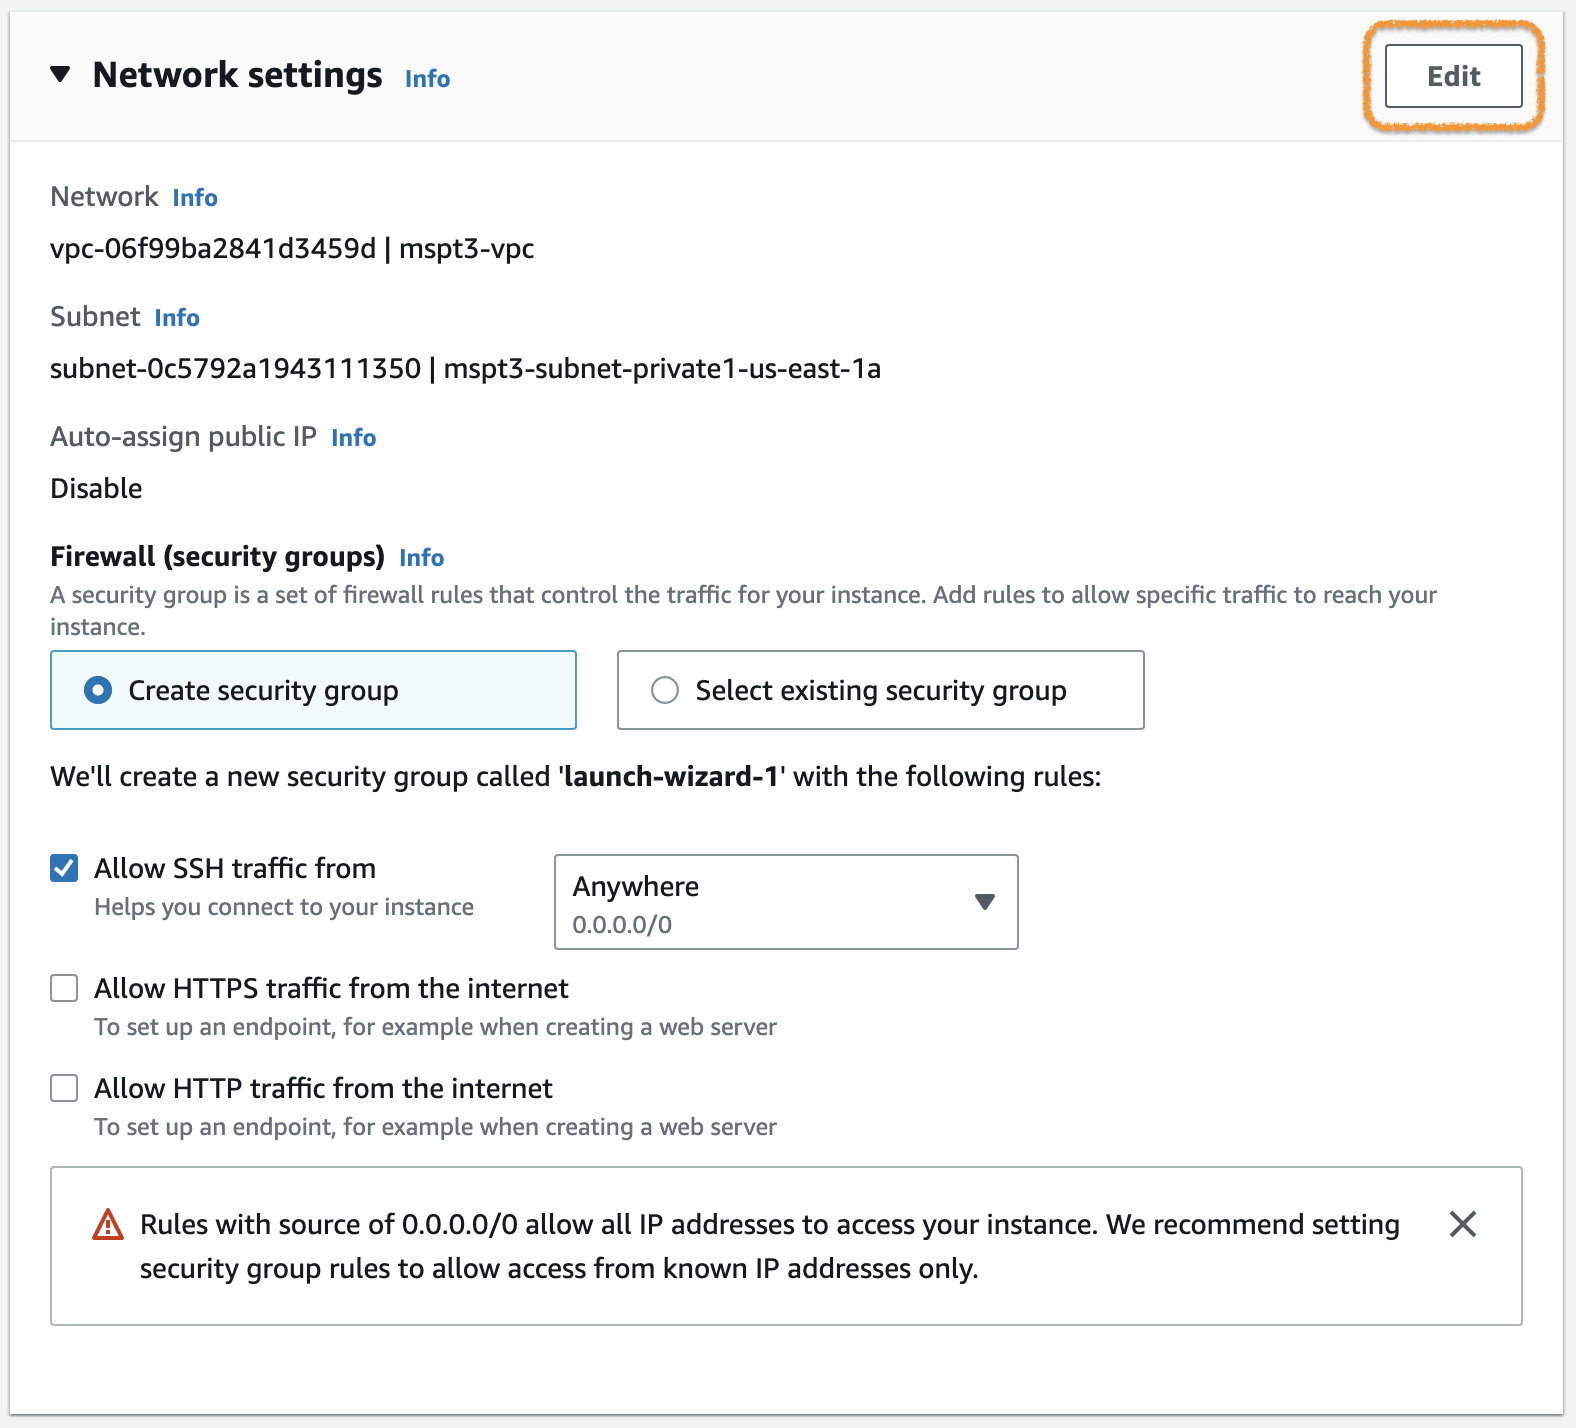
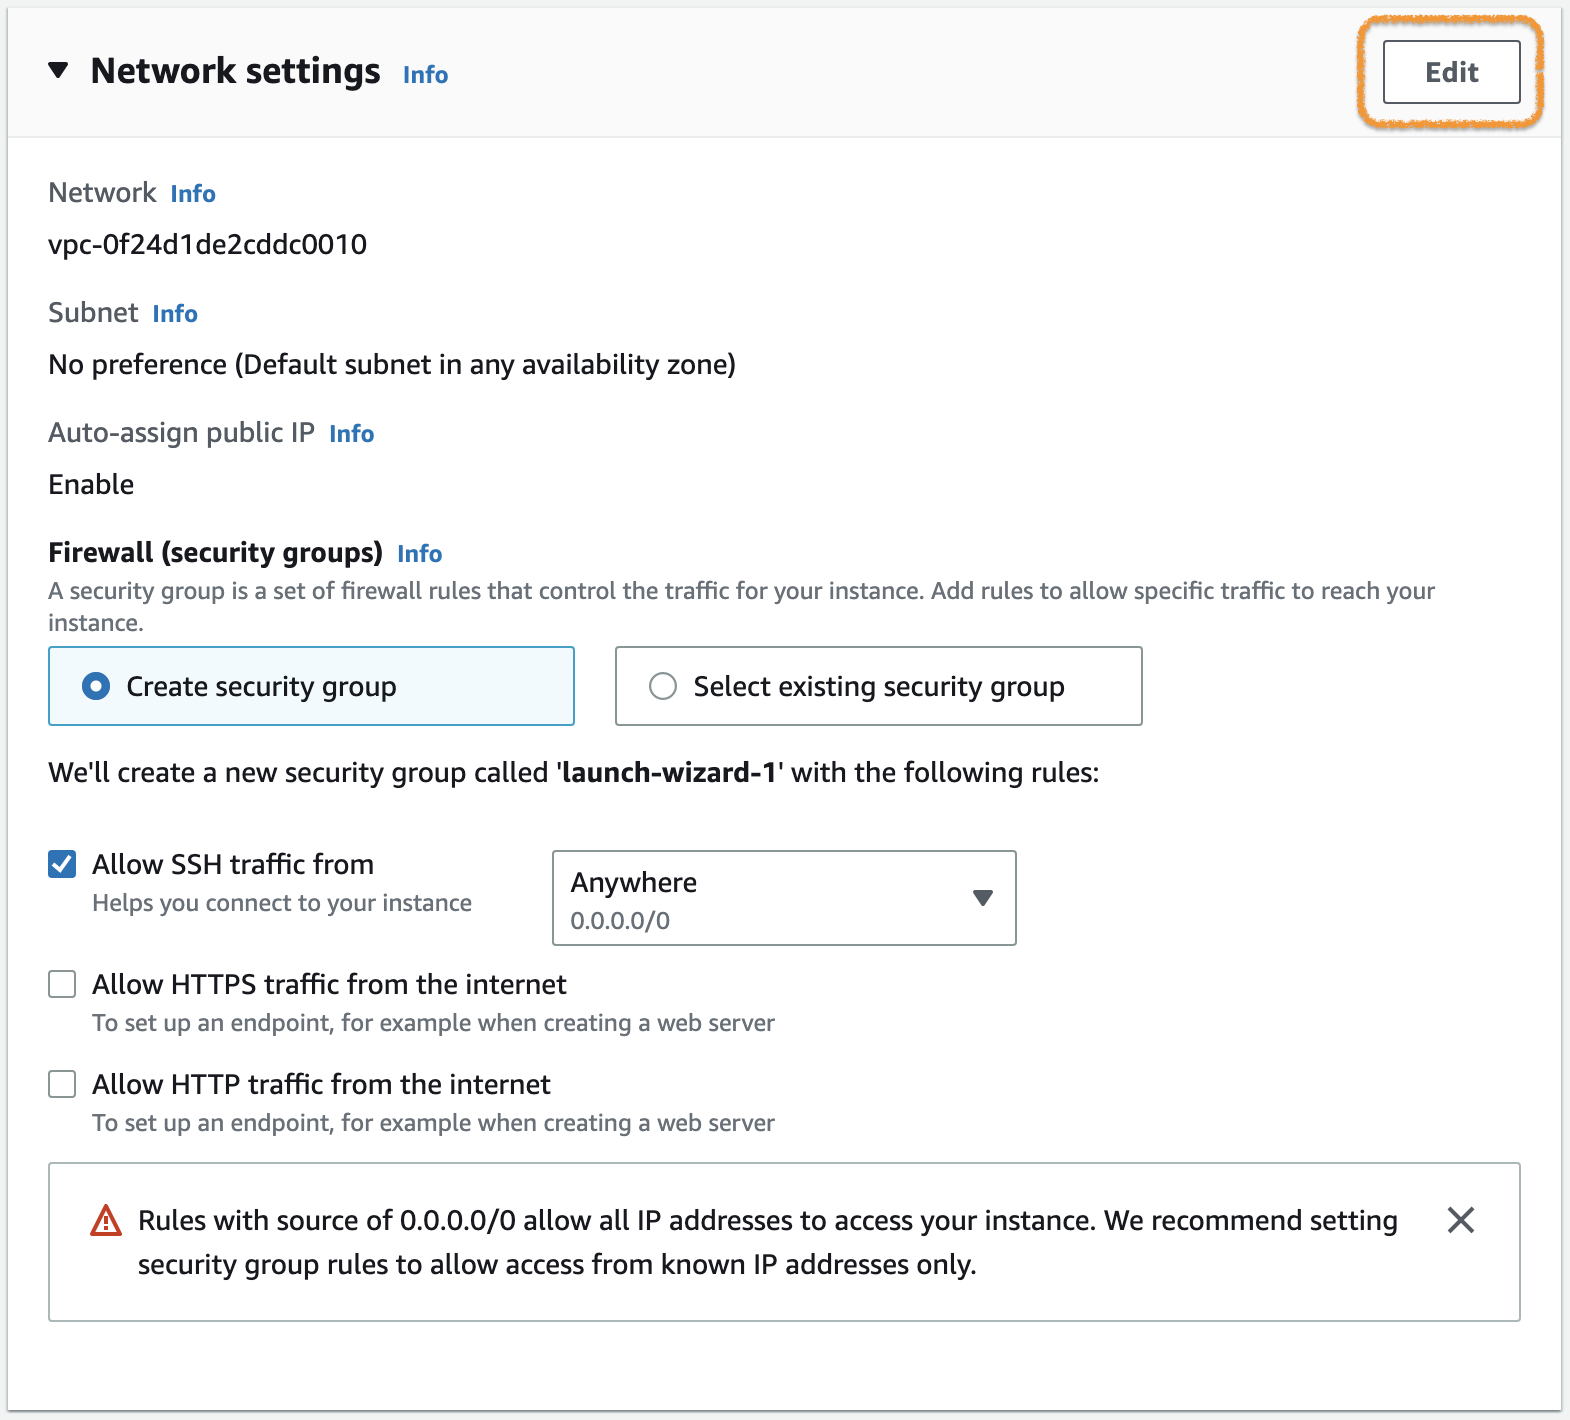
.

diff --git a/doc/[Hands-on] 01_Environment_Setup-Docker.md b/doc/[Hands-on] 01_Environment_Setup-Docker.md
@@ -16,7 +16,6 @@ footer: Samsung SDS
 
 <br>
 
-- **VPC 만들기**
 - **VM Instance 만들기**
 - **VM Instance 접속하기**
 - **Docker 설치하기**
@@ -24,77 +23,37 @@ footer: Samsung SDS
 
 ---
 
-## VPC 만들기
+## VM Instance 만들기
 
 실습을 위한 환경구성을 진행합니다.
-
-먼저 AWS에 [VPC(Virtual Private Cloud)](https://docs.aws.amazon.com/vpc/index.html) 를 만들어 보겠습니다. 실습을 위해 격리된 네트워크 공간을 만드는 것입니다.
-천천히 아래 순서대로 진행하면 됩니다.
 
 먼저 AWS Console에 로그인합니다.
 [https://aws.amazon.com/console/](https://aws.amazon.com/console/)
 
-![h:320](img/aws_vpc_1.png)
+![h:320](img/aws_signin_1.png)
 화면 우측 상단의 `Sign in to the Console`을 클릭합니다.
 
 ---
 
-![h:230](img/aws_vpc_2.png)
+![h:230](img/aws_signin_2.png)
 **Account ID**와 **IAM user name**을 이용해서 `sign in` 합니다.
 
-![h:230](img/aws_vpc_3.png)
+![h:230](img/aws_signin_3.png)
 [MFA](https://docs.aws.amazon.com/ko_kr/singlesignon/latest/userguide/enable-mfa.html) 구성을 한 경우, 위 그림과 같은 화면에서 MFA Code를 입력해야 합니다.
 
 ---
 
-![h:230](img/aws_vpc_4.png)
-Sign in 후에는 가장 먼저 어느 **Region**에 VPC를 구성할지 결정해야 합니다.
+![h:300](img/aws_signin_4.png)
+Sign in 후에는 가장 먼저 어느 **Region**에 VM Instance를 구성할지 결정해야 합니다.
 우측 상단 Region 선택 메뉴에서 Region을 선택합니다.
 
-![h:230](img/aws_vpc_5.png)
-다음은 **서비스** 중에서 **VPC**를 검색하고 이동합니다.
+<br>
+
+- 조별로 정해진 **Region**이 있습니다. 확인 후 진행해주세요.
 
 ---
 
-![h:300](img/aws_vpc_6.png)
-**VPC dashboard** 화면에서 `Create VPC`버튼을 클릭합니다.
-
----
-
-![h:550](img/aws_vpc_7.png)
-위 그림과 같이 입력하고 `Create VPC`버튼을 클릭합니다. (상세 내용은 다음페이지에 있습니다.)
-
----
-
-### VPC 구성 (VPC Settings)
-
-| **구분**                                 | **설정**                            |
-| -------------------------------------- | --------------------------------- |
-| **Resources to create**                | VPC and more를 선택                  |
-| **Name tag auto-generation**           | Auto-generate를 체크하고, 이름은 mspt3 입력 |
-| **IPv4 CIDR block**                    | 10.0.0.0/16 (default)             |
-| **Tenancy**                            | Default                           |
-| **Number of Availability Zones (AZs)** | 1                                 |
-| **Number of public subnets**           | 1                                 |
-| **Number of private subnets**          | 1                                 |
-| **NAT gateways ($)**                   | In 1 AZ                           |
-| **VPC endpoints**                      | None                              |
-
-> 실습에 필요한 최소한의 구성만 진행함.
-
----
-
-![h:280](img/aws_vpc_8.png)
-잠시 기다리면 VPC와 관련 구성이 완료됩니다.
-
-![h:230](img/aws_vpc_9.png)
-완료되면 그림과 같이 **Your VPCs**메뉴에 VPC(**mspt3-vpc**)가 조회되고, **Available** 상태로 되어있습니다.
-
----
-
-## VM Instance 만들기
-
-이제 앞에서 만든 VPC에 VM Instance인 EC2 Instance를 하나 생성합니다.
+이제 EC2 Instance를 만들어 보겠습니다.
 
 ![h:200](img/aws_ec2_1.png)
 **서비스** 중에서 **EC2**를 검색하고 이동합니다.
@@ -137,15 +96,15 @@ Instance 이름을 **mspt3**로 하고, **AMI(Amazon Machine Image)** 중에서 
 
 ### Network 구성 (Network Settings)
 
-| **구분**                            | **설정**                |
-| --------------------------------- | --------------------- |
-| **VPC**                           | mspt3-vpc             |
-| **Subnet**                        | publi subnet 선택       |
-| **Auto-assign public IP**         | Enable                |
-| **Firewall (security groups)**    | Create security group |
-| **Security group name**           | mspt3-sg              |
-| **Description**                   | sg for mspt3          |
-| **Inbound security groups rules** | ssh (TCP,22) , My IP  |
+| **구분**                            | **설정**                          |
+| --------------------------------- | --------------------------------- |
+| **VPC**                           | default VPC를 선택                  |
+| **Subnet**                        | subnet 중 하나를 선택 (public subnet) |
+| **Auto-assign public IP**         | Enable                            |
+| **Firewall (security groups)**    | Create security group             |
+| **Security group name**           | mspt3-sg                          |
+| **Description**                   | sg for mspt3                      |
+| **Inbound security groups rules** | ssh (TCP,22) , My IP              |
 
 > Security group은 우선 꼭 필요한 ssh (TCP,22) 만 My IP로 설정합니다. (이후에 추가로 설정합니다.)
 
